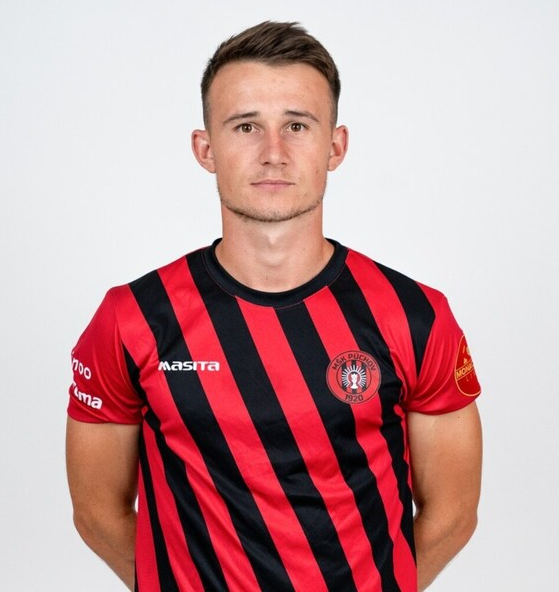
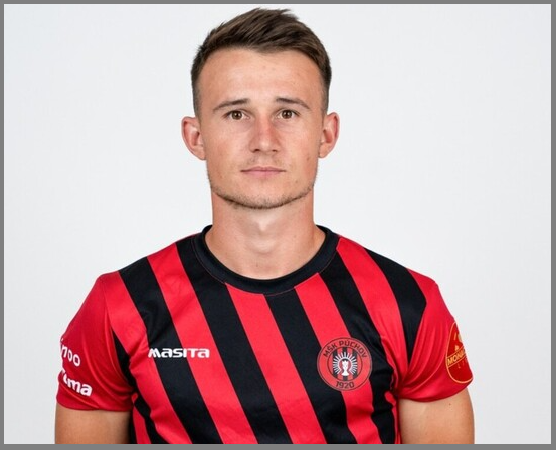
Add files via upload

diff --git a/style.css b/style.css
@@ -750,31 +750,31 @@ margin:28px 0 10px 0;
 }
 
 .ricice-gallery{
-    display:grid;
-    grid-template-columns:repeat(2, minmax(0, 1fr));
-    gap:22px;
+    display:block;
+    width:100%;
     margin:26px 0 30px 0;
     max-width:100%;
     box-sizing:border-box;
 }
 
 .ricice-item{
-    margin:0;
+    display:block;
+    width:100%;
+    margin:0 0 26px 0;
     padding:0;
     min-width:0;
     box-sizing:border-box;
-    overflow:hidden; /* SPRJEČAVA PRELIJEVANJE */
 }
 
 .ricice-item img{
     display:block;
     width:100%;
-    height:auto;      /* ISPRAVAK — više ne probija okvir */
-    object-fit:cover;
+    height:auto;
     max-width:100%;
     border-radius:12px;
     border:1px solid rgba(80,60,35,0.25);
     box-shadow:0 3px 8px rgba(0,0,0,0.18);
+    box-sizing:border-box;
 }
 
 .ricice-item figcaption{
@@ -786,8 +786,9 @@ margin:28px 0 10px 0;
 }
 
 .ricice-video{
-    max-width:620px;
-    margin:8px auto 36px auto;
+    width:100%;
+    max-width:none;
+    margin:8px 0 36px 0;
     box-sizing:border-box;
 }
 
@@ -862,15 +863,6 @@ margin:28px 0 10px 0;
 
     .content-card{
         padding:28px 18px;
-    }
-
-    .ricice-gallery{
-        grid-template-columns:1fr;
-        gap:18px;
-    }
-
-    .ricice-item img{
-        height:auto;
     }
 }
 @media (max-width:600px){
@@ -1322,26 +1314,112 @@ img, video, iframe{
         width:100%;
     }
 }
-/* Filipov dijagram: poravnanje s razdjelnicom lijevog stupca i desnim rubom. */
-@media (min-width:1101px){
-    body.hr .filip-tree-embed,
-    body.en .filip-tree-embed{
-        width:auto !important;
-        max-width:none !important;
-        margin-left:-68px !important;
-        margin-right:-52px !important;
-    }
+
+/* ======================================================
+   MIGRACIJE — RIČICE: fotografije i video ispod karte
+   Svaki medij ide punom širinom sadržaja; visina ostaje
+   u izvornom omjeru i automatski se prilagođava širini.
+====================================================== */
+.migracije-ricice-media{
+    width:100%;
+    max-width:100%;
+    box-sizing:border-box;
+    margin:30px 0 34px;
 }
 
-@media (min-width:901px) and (max-width:1100px){
-    body.hr .filip-tree-embed,
-    body.en .filip-tree-embed{
-        width:auto !important;
-        max-width:none !important;
-        margin-left:-60px !important;
-        margin-right:-52px !important;
-    }
+.migracije-ricice-gallery{
+    display:block;
+    width:100%;
+    max-width:100%;
+    margin:0;
+    padding:0;
+    box-sizing:border-box;
 }
 
-/* TANDARA TRAJNO PRAVILO — FlagCounter već ima vlastiti naslov. */
-.flag-title, .visitor-title { display:none !important; }
+.migracije-ricice-item{
+    display:block;
+    width:100%;
+    max-width:100%;
+    margin:0 0 30px;
+    padding:0;
+    box-sizing:border-box;
+}
+
+.migracije-ricice-item img,
+.migracije-ricice-item video{
+    display:block;
+    width:100%;
+    max-width:100%;
+    height:auto;
+    margin:0;
+    object-fit:contain;
+    box-sizing:border-box;
+}
+
+.migracije-ricice-item figcaption{
+    margin:9px 0 0;
+    padding:0 8px;
+    font-size:16px;
+    line-height:1.4;
+    text-align:center;
+    color:#4a3b2a;
+}
+
+.migracije-ricice-video-item{
+    margin-bottom:8px;
+}
+
+/* Zanimljivosti — Australija: naziv Tandara */
+.australia-tandara-gallery{
+    display:grid;
+    grid-template-columns:repeat(2, minmax(0, 1fr));
+    gap:22px;
+    width:100%;
+    max-width:100%;
+    margin:22px 0 30px;
+    padding:0;
+    box-sizing:border-box;
+}
+.australia-tandara-item{
+    margin:0;
+    padding:0;
+    min-width:0;
+    box-sizing:border-box;
+}
+.australia-tandara-image{
+    display:flex;
+    align-items:center;
+    justify-content:center;
+    width:100%;
+    aspect-ratio:4 / 3;
+    overflow:hidden;
+    box-sizing:border-box;
+    border-radius:12px;
+    border:1px solid rgba(80,60,35,0.25);
+    background:#f5f3ef;
+    box-shadow:0 3px 8px rgba(0,0,0,0.18);
+}
+.australia-tandara-image img{
+    display:block;
+    width:100%;
+    height:100%;
+    max-width:100%;
+    object-fit:contain;
+    box-sizing:border-box;
+}
+.australia-tandara-item figcaption{
+    margin-top:8px;
+    min-height:2.7em;
+    font-size:16px;
+    line-height:1.35;
+    text-align:center;
+    color:#4a3b2a;
+}
+.australia-tandara-summary{
+    margin-top:24px;
+}
+@media (max-width:700px){
+    .australia-tandara-gallery{
+        grid-template-columns:1fr;
+    }
+}

diff --git a/rodoslovlje-hr.html b/rodoslovlje-hr.html
@@ -3,7 +3,7 @@
 
 <html lang="hr">
 <head>
-<meta content="strict-origin-when-cross-origin" name="referrer"/><meta content="default-src 'self'; base-uri 'self'; object-src 'none'; img-src 'self' https://s01.flagcounter.com data:; script-src 'self'; script-src-attr 'none'; connect-src 'self' https://api-gateway.umami.dev; style-src 'self' 'sha256-Qzyq3K3M9yziTJWJTtGmVAEOkt4pGUEjQT0uJ0JOcXQ=' 'sha256-BztjUHUPbgdt8xam7TeWakoPLJPQ9gteTxvZU+M/Vpk='; style-src-elem 'self' 'sha256-Qzyq3K3M9yziTJWJTtGmVAEOkt4pGUEjQT0uJ0JOcXQ=' 'sha256-BztjUHUPbgdt8xam7TeWakoPLJPQ9gteTxvZU+M/Vpk='; style-src-attr 'none'; form-action 'self' https://formsubmit.co; upgrade-insecure-requests; block-all-mixed-content;" http-equiv="Content-Security-Policy"/>
+<meta content="strict-origin-when-cross-origin" name="referrer"/><meta content="default-src 'self'; base-uri 'self'; object-src 'none'; img-src 'self' https://s01.flagcounter.com data:; script-src 'self'; script-src-attr 'none'; connect-src 'self'; style-src 'self' 'sha256-Qzyq3K3M9yziTJWJTtGmVAEOkt4pGUEjQT0uJ0JOcXQ=' 'sha256-BztjUHUPbgdt8xam7TeWakoPLJPQ9gteTxvZU+M/Vpk='; style-src-elem 'self' 'sha256-Qzyq3K3M9yziTJWJTtGmVAEOkt4pGUEjQT0uJ0JOcXQ=' 'sha256-BztjUHUPbgdt8xam7TeWakoPLJPQ9gteTxvZU+M/Vpk='; style-src-attr 'none'; form-action 'self' https://formsubmit.co; upgrade-insecure-requests; block-all-mixed-content;" http-equiv="Content-Security-Policy"/>
 <meta charset="utf-8"/>
 <meta content="width=device-width, initial-scale=1.0" name="viewport"/>
 <title>Rodoslovlje roda Tandara | TANDARA-PREZIME</title>
@@ -16,15 +16,17 @@
 <meta property="og:title" content="Rodoslovlje roda Tandara | TANDARA-PREZIME"/>
 <meta property="og:description" content="Rodoslovlje roda Tandara, obiteljske grane, preci, potomci i povijesni zapisi objedinjeni u projektu TANDARA-PREZIME."/>
 <meta property="og:url" content="https://tandarajure-crypto.github.io/Tandara/rodoslovlje-hr.html"/>
-<meta property="og:image" content="https://tandarajure-crypto.github.io/Tandara/family-tree.png"/>
+<meta property="og:image" content="https://tandarajure-crypto.github.iofamily-tree.png"/>
 <meta name="twitter:card" content="summary_large_image"/>
 
 <link href="style.css?v=14" rel="stylesheet"/>
 
-<script defer src="umami-tracker.js" integrity="sha384-e3RxMgp4P3PdYNypfLmPgiuyYjCW9pCHTnhy/zqdvmPrY9+xrarWVQyIlT+eqano" data-host-url="https://api-gateway.umami.dev" data-website-id="41653efe-d2ca-47a1-99c0-8fa9d20b128a" data-domains="tandarajure-crypto.github.io" data-exclude-search="true" data-exclude-hash="true" data-do-not-track="true"></script>
 <link rel="stylesheet" href="assets/css/common/mobile-topbar-hr.css?v=1">
 <link rel="stylesheet" href="assets/css/common/mobile-split-hr.css?v=1">
 <link href="./mobile-subpages-fullscreen.css?v=2" rel="stylesheet"/>
+
+<link id="author-page-layout-fix" rel="stylesheet" href="assets/css/common/author-layout-fix.css?v=1">
+<link rel="stylesheet" href="assets/css/common/desktop-sticky-sidebar.css?v=1">
 </head>
 <body class="hr box-mobile-split mobile-subpage-full">
 <nav class="mobile-box-topbar" aria-label="Mobilna navigacija">
@@ -64,11 +66,13 @@
 </a>
 </div>
 <div class="flagbox">
-<div class="flag-title">Posjetitelji</div>  
-<a href="https://info.flagcounter.com/OyvA" rel="noopener noreferrer" target="_blank" referrerpolicy="no-referrer">
-<img alt="Flag Counter" src="https://s01.flagcounter.com/countxl/OyvA/bg_FFFFFF/txt_000000/border_CCCCCC/columns_4/maxflags_50/viewers_0/labels_0/pageviews_0/flags_1/percent_0/" referrerpolicy="no-referrer"/>
-</a>
+  <div class="flag-title">Posjetitelji</div>
+  <a href="https://info.flagcounter.com/OyvA" rel="noopener noreferrer" target="_blank" referrerpolicy="no-referrer">
+    <img alt="Brojač posjetitelja prema državama" decoding="async" loading="lazy" src="https://s01.flagcounter.com/countxl/OyvA/bg_FFFFFF/txt_000000/border_CCCCCC/columns_4/maxflags_50/viewers_0/labels_0/pageviews_0/flags_1/percent_0/" referrerpolicy="no-referrer"/>
+  </a>
 </div>
+
+
 </aside>
 <main class="content-page">
 <article class="content-card">

diff --git a/visitors-messages.html b/visitors-messages.html
@@ -2,7 +2,7 @@
 
 <html lang="en">
 <head>
-<meta content="strict-origin-when-cross-origin" name="referrer"/><meta content="default-src 'self'; base-uri 'self'; object-src 'none'; img-src 'self' https://s01.flagcounter.com data:; script-src 'self'; script-src-attr 'none'; connect-src 'self' https://api-gateway.umami.dev; style-src 'self' 'unsafe-hashes' 'sha256-cJ6apvRjryYirYgn2EcxFSQQTZJELADFMuuCiAWbCVg='; style-src-elem 'self'; style-src-attr 'unsafe-hashes' 'sha256-cJ6apvRjryYirYgn2EcxFSQQTZJELADFMuuCiAWbCVg='; form-action 'self' https://formsubmit.co; upgrade-insecure-requests; block-all-mixed-content;" http-equiv="Content-Security-Policy"/>
+<meta content="strict-origin-when-cross-origin" name="referrer"/><meta content="default-src 'self'; base-uri 'self'; object-src 'none'; img-src 'self' https://s01.flagcounter.com data:; script-src 'self'; script-src-attr 'none'; connect-src 'self'; style-src 'self' 'unsafe-hashes' 'sha256-cJ6apvRjryYirYgn2EcxFSQQTZJELADFMuuCiAWbCVg='; style-src-elem 'self'; style-src-attr 'unsafe-hashes' 'sha256-cJ6apvRjryYirYgn2EcxFSQQTZJELADFMuuCiAWbCVg='; form-action 'self' https://formsubmit.co; upgrade-insecure-requests; block-all-mixed-content;" http-equiv="Content-Security-Policy"/>
 <meta charset="utf-8"/>
 <meta content="width=device-width, initial-scale=1.0" name="viewport"/>
 <title>TANDARA – Surname | Visitors’ Messages</title>
@@ -12,7 +12,6 @@
 <link rel="alternate" hreflang="en" href="https://tandarajure-crypto.github.io/Tandara/visitors-messages.html">
 <link rel="alternate" hreflang="x-default" href="https://tandarajure-crypto.github.io/Tandara/knjiga-poruka.html">
 
-<script defer src="umami-tracker.js" integrity="sha384-e3RxMgp4P3PdYNypfLmPgiuyYjCW9pCHTnhy/zqdvmPrY9+xrarWVQyIlT+eqano" data-host-url="https://api-gateway.umami.dev" data-website-id="41653efe-d2ca-47a1-99c0-8fa9d20b128a" data-domains="tandarajure-crypto.github.io" data-exclude-search="true" data-exclude-hash="true" data-do-not-track="true"></script>
 <meta content="TANDARA – Surname | Visitors’ Messages" property="og:title"/>
 <meta content="Visitors messages for the Tandara family archive." property="og:description"/>
 <meta content="https://tandarajure-crypto.github.io/Tandara/visitors-messages.html" property="og:url"/>
@@ -20,6 +19,9 @@
 <meta content="website" property="og:type"/>
 <link href="./style.css?v=14" rel="stylesheet"/>
 <link href="./mobile-subpages-fullscreen.css?v=2" rel="stylesheet"/>
+
+<link id="author-page-layout-fix" rel="stylesheet" href="assets/css/common/author-layout-fix.css?v=1">
+<link rel="stylesheet" href="assets/css/common/desktop-sticky-sidebar.css?v=1">
 </head>
 <body class="en mobile-subpage-full">
 <nav class="mobile-box-topbar" aria-label="Mobile navigation">
@@ -60,10 +62,12 @@
 </a>
 </div>
 <div class="flagbox">
-<a href="https://info.flagcounter.com/OyvA" rel="noopener noreferrer" target="_blank" referrerpolicy="no-referrer">
-<img alt="Flag Counter" src="https://s01.flagcounter.com/countxl/OyvA/bg_FFFFFF/txt_000000/border_CCCCCC/columns_4/maxflags_50/viewers_0/labels_1/pageviews_0/flags_1/percent_0/" referrerpolicy="no-referrer"/>
-</a>
+  <a href="https://info.flagcounter.com/OyvA" rel="noopener noreferrer" target="_blank" referrerpolicy="no-referrer">
+    <img alt="Visitor counter by country" decoding="async" loading="lazy" src="https://s01.flagcounter.com/countxl/OyvA/bg_FFFFFF/txt_000000/border_CCCCCC/columns_4/maxflags_50/viewers_0/labels_0/pageviews_0/flags_1/percent_0/" referrerpolicy="no-referrer"/>
+  </a>
 </div>
+
+
 </aside>
 <main class="content-page">
 <article class="content-card">

diff --git a/rodoslovlje-en.html b/rodoslovlje-en.html
@@ -3,7 +3,7 @@
 
 <html lang="en">
 <head>
-<meta content="strict-origin-when-cross-origin" name="referrer"/><meta content="default-src 'self'; base-uri 'self'; object-src 'none'; img-src 'self' https://s01.flagcounter.com data:; script-src 'self'; script-src-attr 'none'; connect-src 'self' https://api-gateway.umami.dev; style-src 'self' 'sha256-02k0rluV7zZUlmvJ6oObEesZjDY2g86UsL/lFXT1WNY=' 'sha256-QnurNjW96t1kp/sbeXepjaqk2GGXzMKDAWInOBQzLGQ='; style-src-elem 'self' 'sha256-02k0rluV7zZUlmvJ6oObEesZjDY2g86UsL/lFXT1WNY=' 'sha256-QnurNjW96t1kp/sbeXepjaqk2GGXzMKDAWInOBQzLGQ='; style-src-attr 'none'; form-action 'self' https://formsubmit.co; upgrade-insecure-requests; block-all-mixed-content;" http-equiv="Content-Security-Policy"/>
+<meta content="strict-origin-when-cross-origin" name="referrer"/><meta content="default-src 'self'; base-uri 'self'; object-src 'none'; img-src 'self' https://s01.flagcounter.com data:; script-src 'self'; script-src-attr 'none'; connect-src 'self'; style-src 'self' 'sha256-02k0rluV7zZUlmvJ6oObEesZjDY2g86UsL/lFXT1WNY=' 'sha256-QnurNjW96t1kp/sbeXepjaqk2GGXzMKDAWInOBQzLGQ='; style-src-elem 'self' 'sha256-02k0rluV7zZUlmvJ6oObEesZjDY2g86UsL/lFXT1WNY=' 'sha256-QnurNjW96t1kp/sbeXepjaqk2GGXzMKDAWInOBQzLGQ='; style-src-attr 'none'; form-action 'self' https://formsubmit.co; upgrade-insecure-requests; block-all-mixed-content;" http-equiv="Content-Security-Policy"/>
 <meta charset="utf-8"/>
 <meta content="width=device-width, initial-scale=1.0" name="viewport"/>
 <title>Family Genealogy | TANDARA-SURNAME</title>
@@ -20,7 +20,6 @@
 <meta name="twitter:card" content="summary_large_image"/>
 
 
-<script defer src="umami-tracker.js" integrity="sha384-e3RxMgp4P3PdYNypfLmPgiuyYjCW9pCHTnhy/zqdvmPrY9+xrarWVQyIlT+eqano" data-host-url="https://api-gateway.umami.dev" data-website-id="41653efe-d2ca-47a1-99c0-8fa9d20b128a" data-domains="tandarajure-crypto.github.io" data-exclude-search="true" data-exclude-hash="true" data-do-not-track="true"></script>
 <!-- OPEN GRAPH FOR LINK PREVIEW -->
 
 
@@ -33,6 +32,9 @@
 <link rel="stylesheet" href="assets/css/common/mobile-split-en.css?v=1">
 
 <link href="./mobile-subpages-fullscreen.css?v=2" rel="stylesheet"/>
+
+<link id="author-page-layout-fix" rel="stylesheet" href="assets/css/common/author-layout-fix.css?v=1">
+<link rel="stylesheet" href="assets/css/common/desktop-sticky-sidebar.css?v=1">
 </head>
 <body class="en box-mobile-split mobile-subpage-full">
 <nav class="mobile-box-topbar" aria-label="Mobile navigation">
@@ -73,10 +75,12 @@
 </a>
 </div>
 <div class="flagbox">
-<a href="https://info.flagcounter.com/OyvA" rel="noopener noreferrer" target="_blank" referrerpolicy="no-referrer">
-<img alt="Flag Counter" src="https://s01.flagcounter.com/countxl/OyvA/bg_FFFFFF/txt_000000/border_CCCCCC/columns_4/maxflags_50/viewers_0/labels_1/pageviews_0/flags_1/percent_0/" referrerpolicy="no-referrer"/>
-</a>
+  <a href="https://info.flagcounter.com/OyvA" rel="noopener noreferrer" target="_blank" referrerpolicy="no-referrer">
+    <img alt="Visitor counter by country" decoding="async" loading="lazy" src="https://s01.flagcounter.com/countxl/OyvA/bg_FFFFFF/txt_000000/border_CCCCCC/columns_4/maxflags_50/viewers_0/labels_0/pageviews_0/flags_1/percent_0/" referrerpolicy="no-referrer"/>
+  </a>
 </div>
+
+
 </aside>
 <main class="content-page">
 <article class="content-card">

diff --git a/zanimljivosti.html b/zanimljivosti.html
@@ -35,6 +35,9 @@
 <link rel="stylesheet" href="assets/css/common/mobile-topbar-hr.css?v=1">
 <link rel="stylesheet" href="assets/css/common/mobile-split-hr.css?v=1">
 <link href="./mobile-subpages-fullscreen.css?v=2" rel="stylesheet"/>
+
+<link id="author-page-layout-fix" rel="stylesheet" href="assets/css/common/author-layout-fix.css?v=1">
+<link rel="stylesheet" href="assets/css/common/desktop-sticky-sidebar.css?v=1">
 </head>
 
 <body class="hr box-mobile-split mobile-subpage-full">
@@ -443,7 +446,7 @@ U Slovačkoj postoje i poznati suvremeni nositelji prezimena, što dodatno potvr
 <div class="australia-tandara-gallery" aria-label="Lukáš i Marián Tandara – Slovačka">
   <figure class="australia-tandara-item">
     <div class="australia-tandara-image">
-      <img src="Bez%20naslova.png" alt="Lukáš Tandara, profesionalni lutkar, glumac i improvizator iz Žiline" loading="lazy"/>
+      <img src="Lukaš Tandara.png" alt="Lukáš Tandara, profesionalni lutkar, glumac i improvizator iz Žiline" loading="lazy"/>
     </div>
     <figcaption>Lukáš Tandara – profesionalni lutkar, glumac i improvizator iz Žiline</figcaption>
   </figure>

diff --git a/zanimljivosti-en.html b/zanimljivosti-en.html
@@ -39,6 +39,9 @@
 <link rel="stylesheet" href="assets/css/common/mobile-split-en.css?v=1">
 
 <link href="./mobile-subpages-fullscreen.css?v=2" rel="stylesheet"/>
+
+<link id="author-page-layout-fix" rel="stylesheet" href="assets/css/common/author-layout-fix.css?v=1">
+<link rel="stylesheet" href="assets/css/common/desktop-sticky-sidebar.css?v=1">
 </head>
 
 <body class="en box-mobile-split mobile-subpage-full">
@@ -464,7 +467,7 @@ second division.
 <div class="australia-tandara-gallery" aria-label="Lukáš and Marián Tandara – Slovakia">
   <figure class="australia-tandara-item">
     <div class="australia-tandara-image">
-      <img src="Bez%20naslova.png" alt="Lukáš Tandara, professional puppeteer, actor and improviser from Žilina" loading="lazy"/>
+      <img src="Lukaš Tandara.png" alt="Lukáš Tandara, professional puppeteer, actor and improviser from Žilina" loading="lazy"/>
     </div>
     <figcaption>Lukáš Tandara – professional puppeteer, actor and improviser from Žilina</figcaption>
   </figure>
